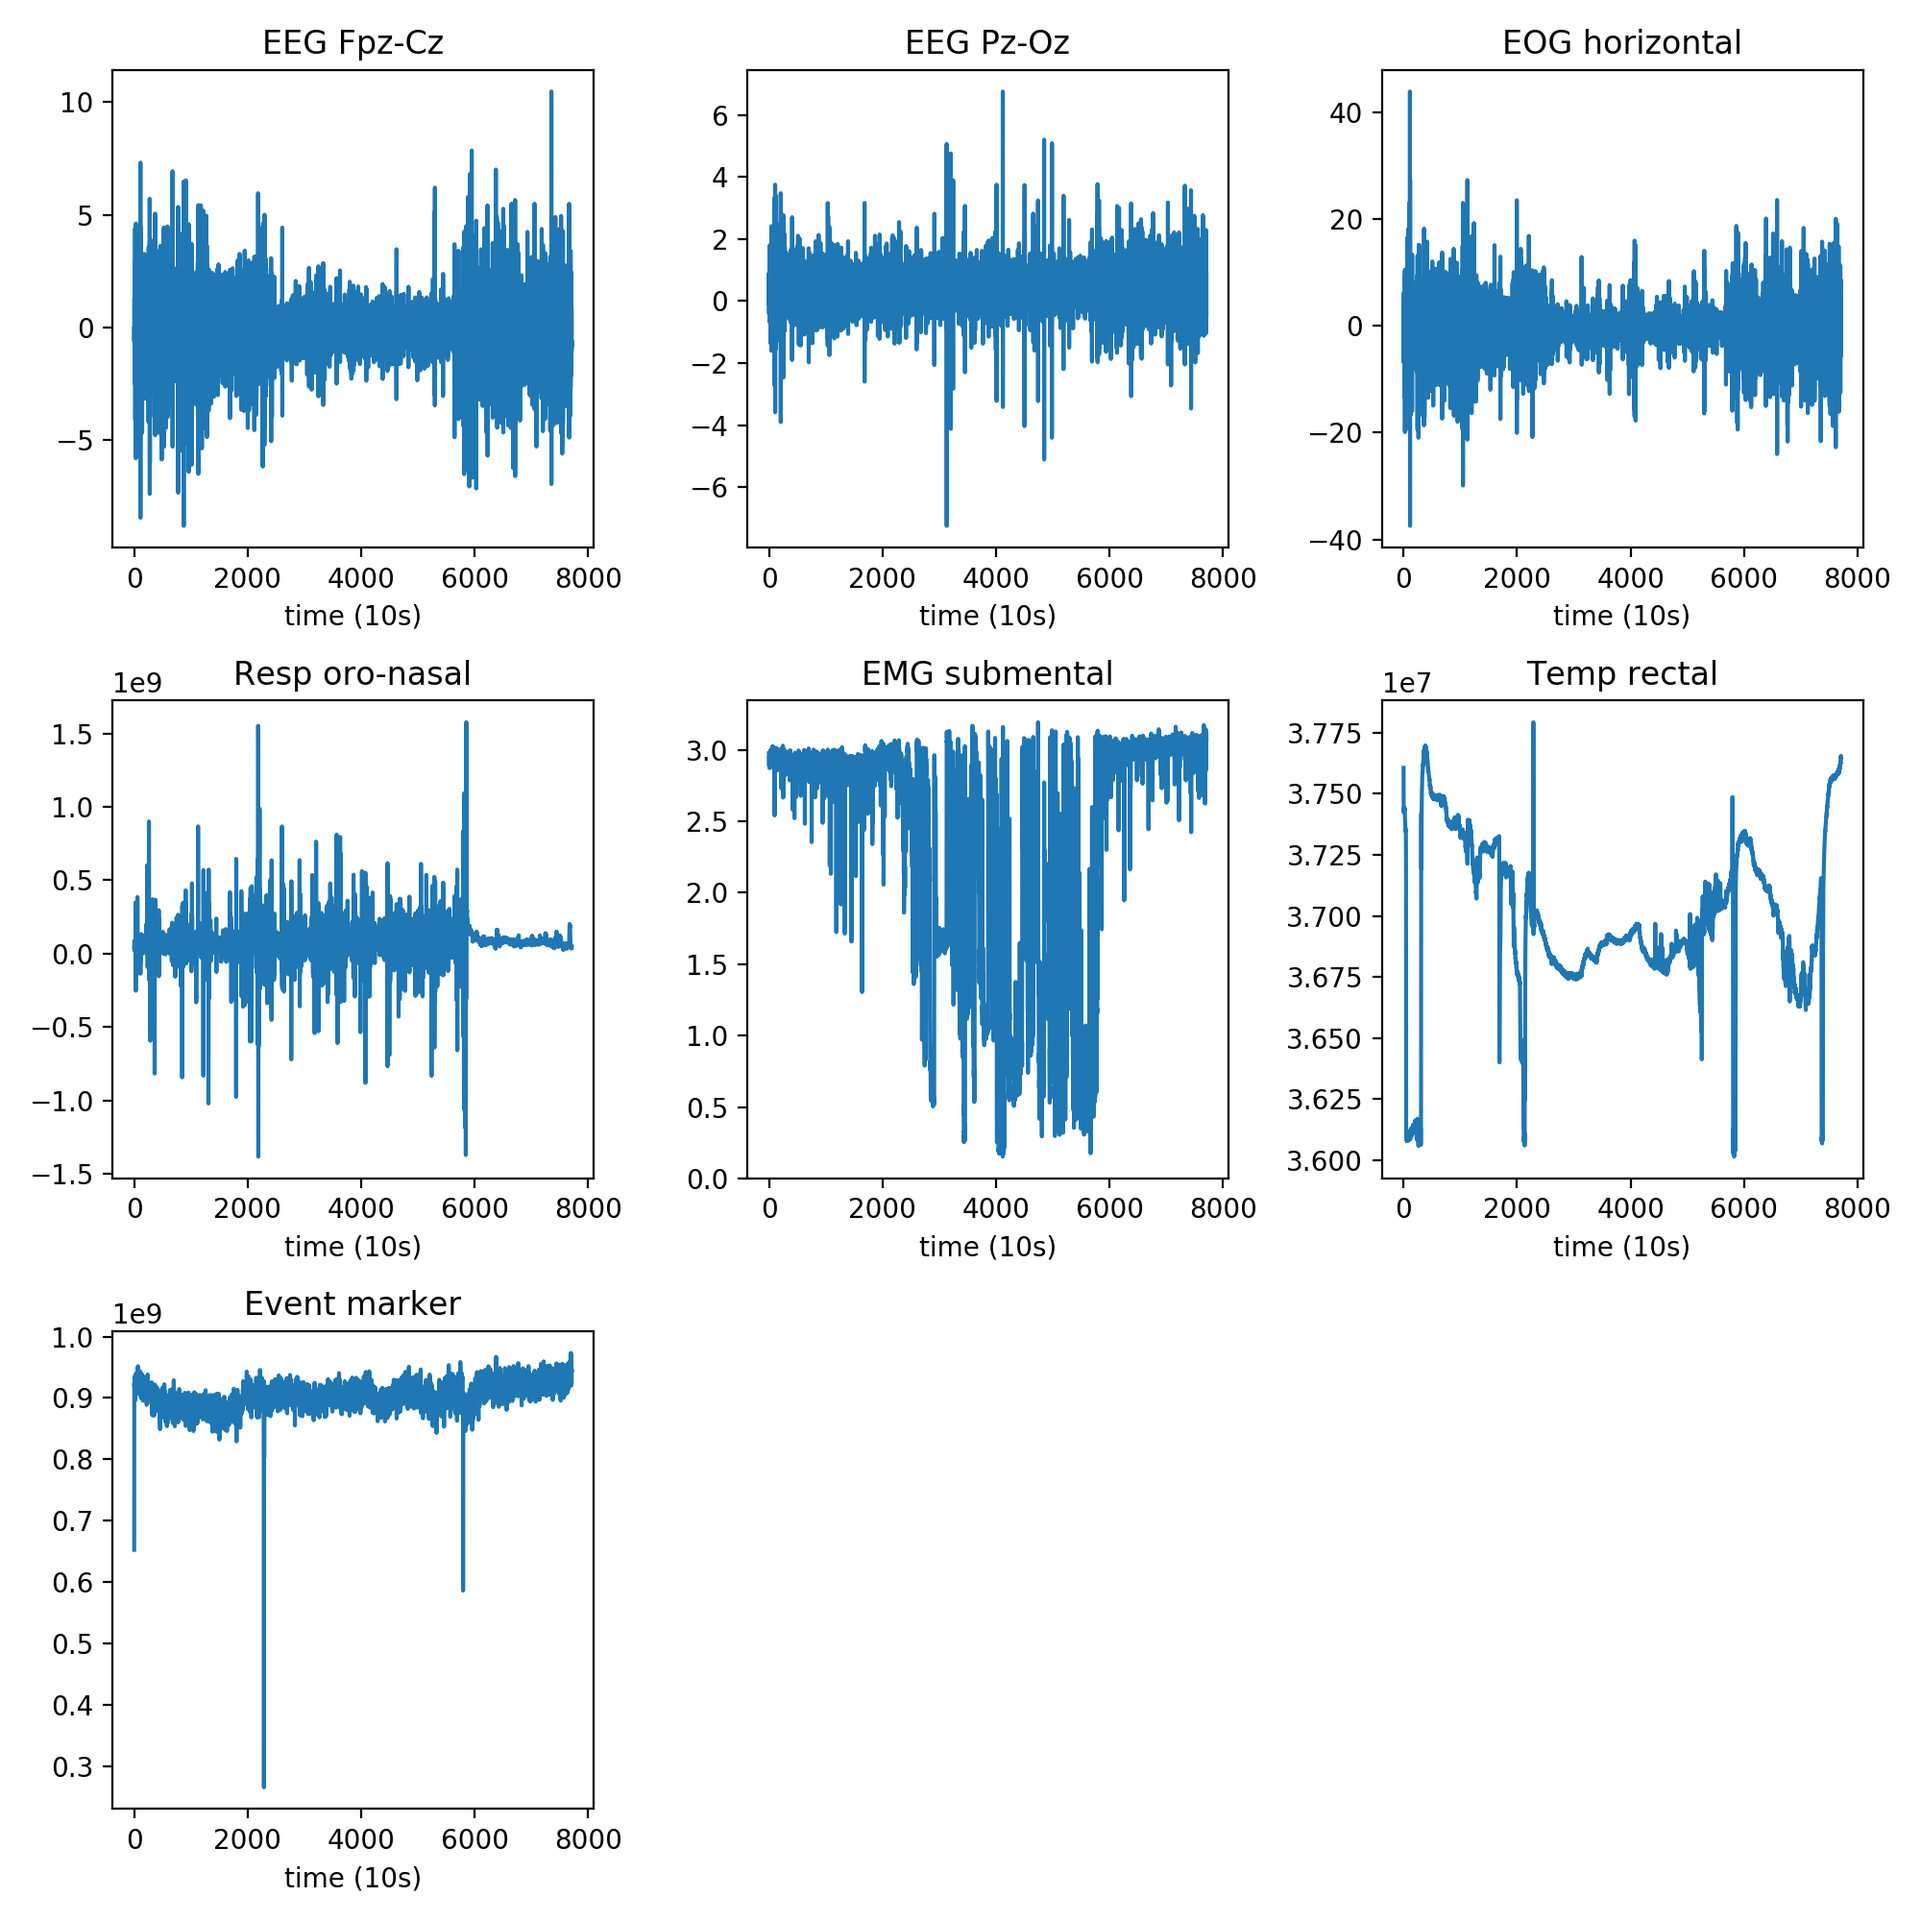
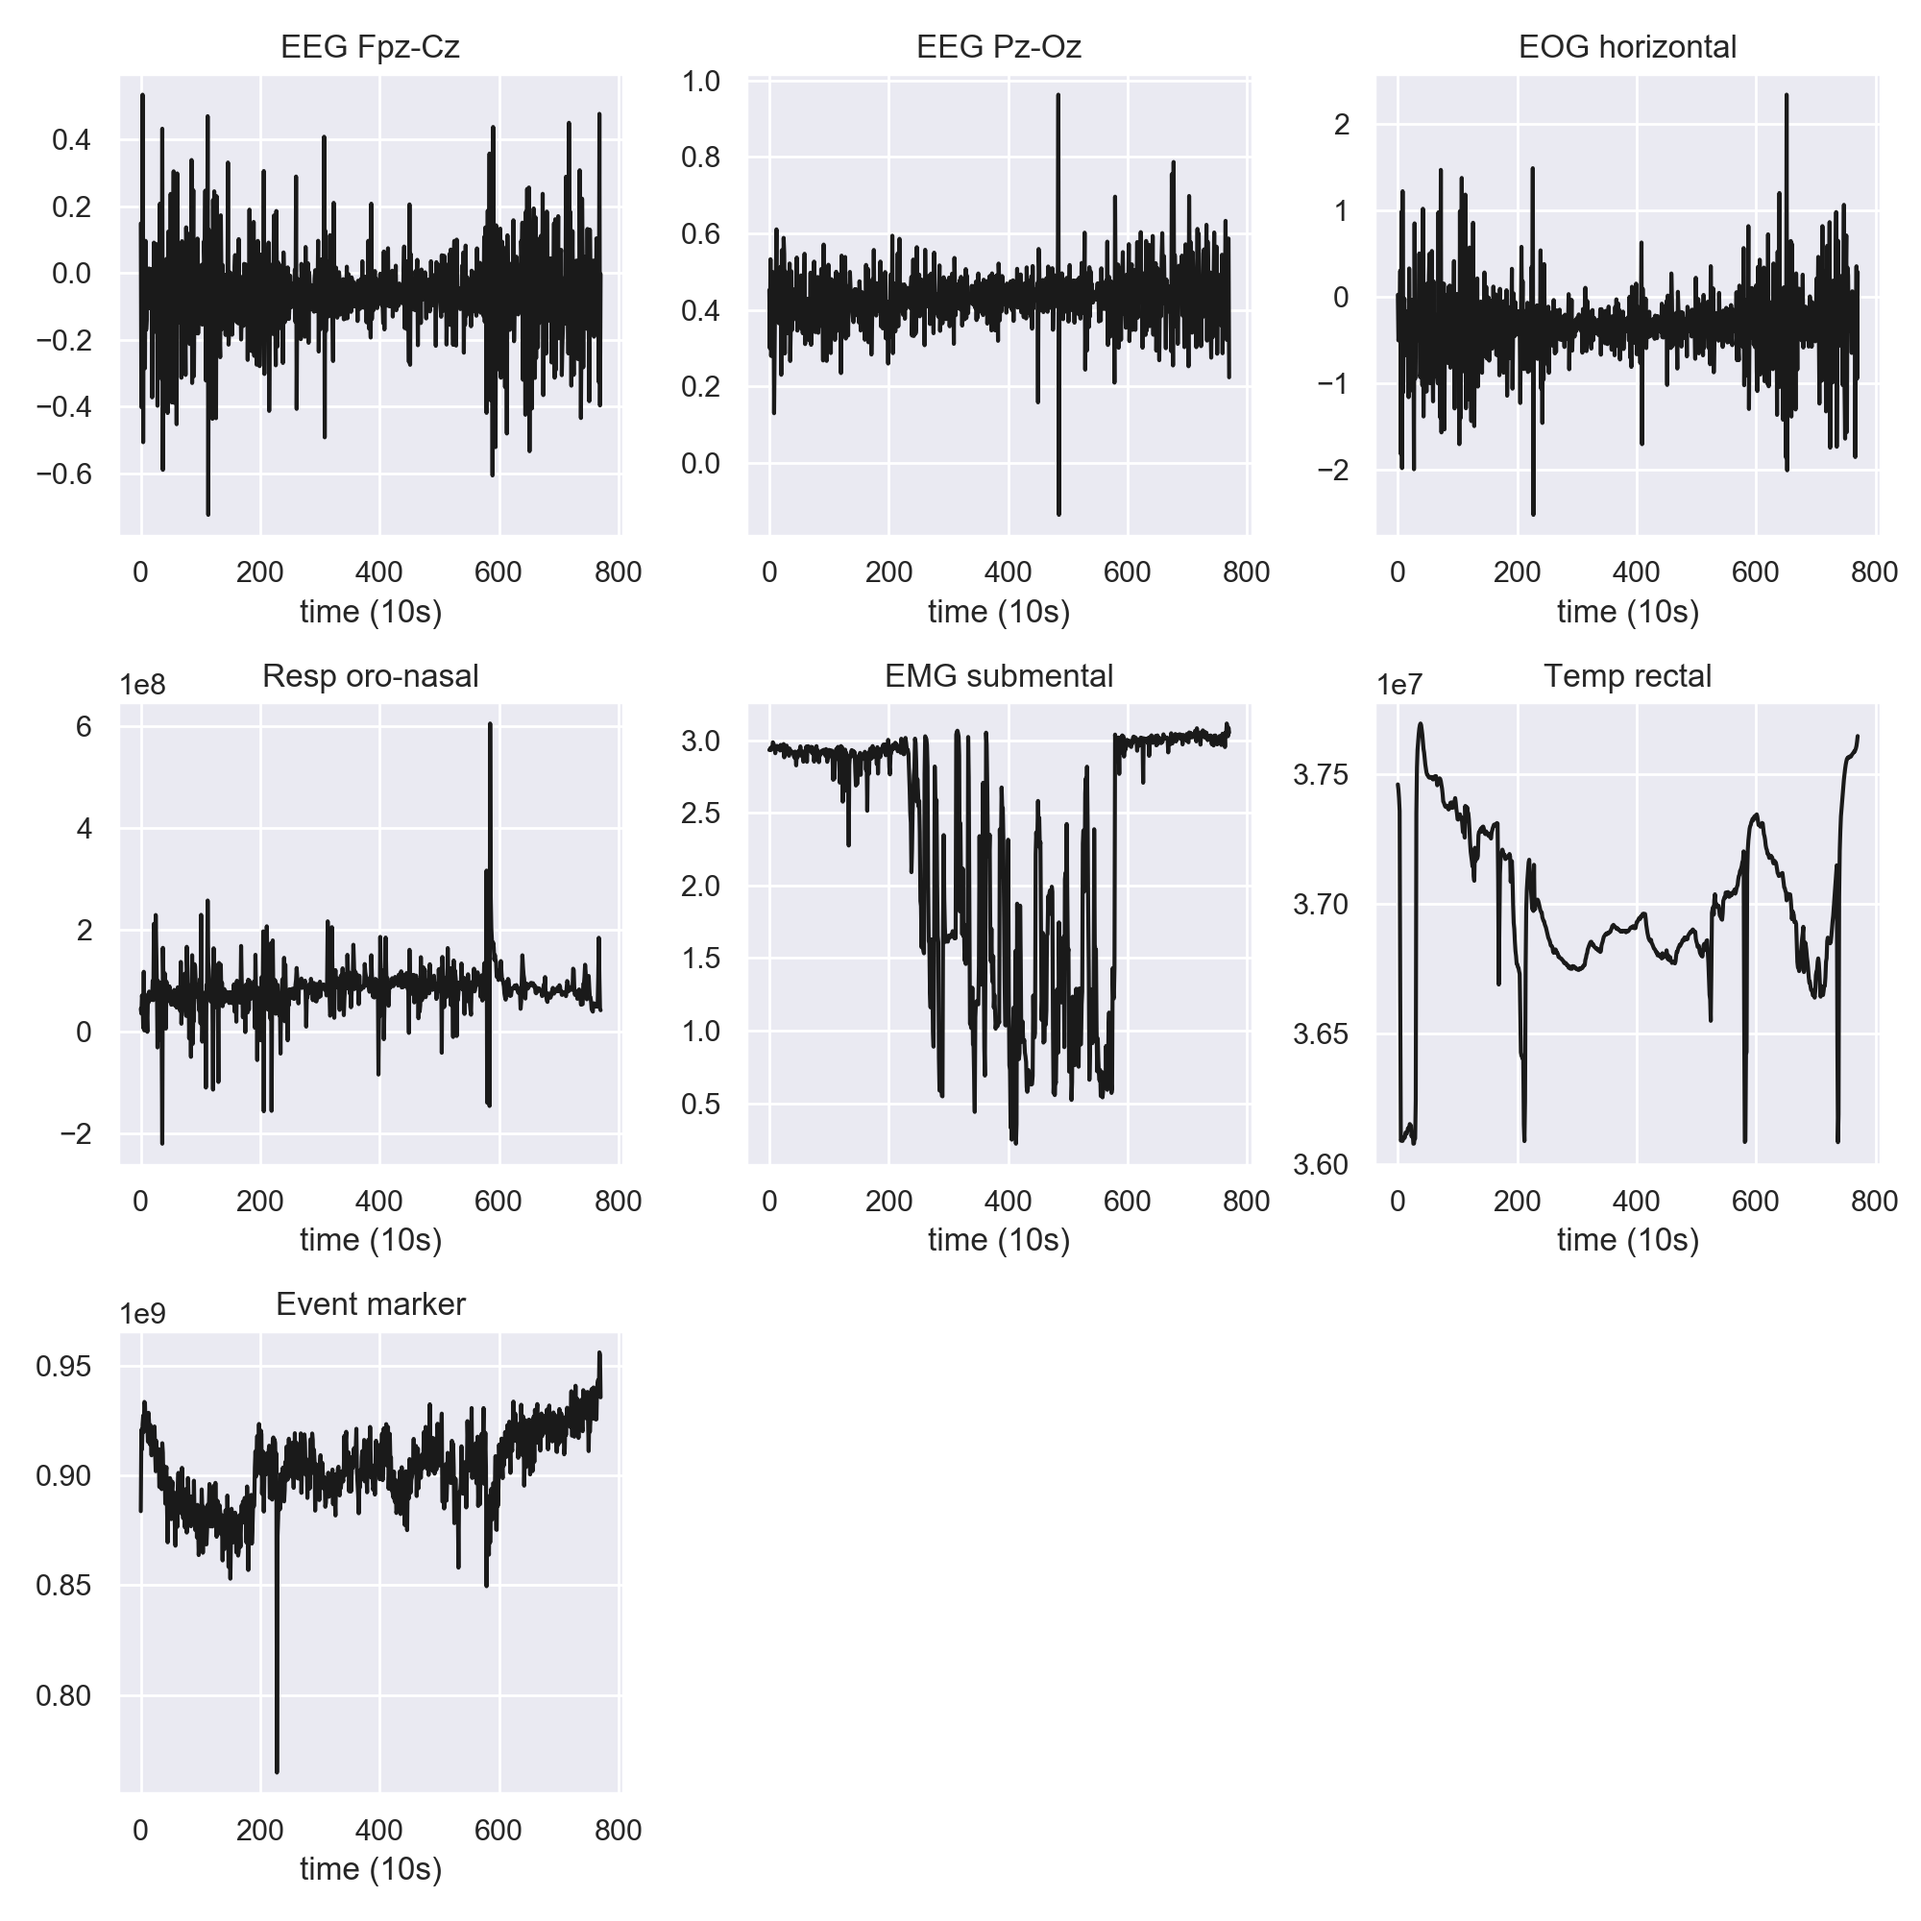
eda plot update.

diff --git a/program/eda.py b/program/eda.py
@@ -5,6 +5,8 @@ import mne
 from mne.io import read_raw_edf
 import os
 import re
+import seaborn as sns
+sns.set()
 
 sample_data = read_raw_edf('data/sleep-cassette/SC4041E0-PSG.edf')
 channel_names = sample_data.info['ch_names']
@@ -21,8 +23,8 @@ def plot_psg(eeg, save_path):
     plt.figure(figsize=[10, 10])
     for i, channel in enumerate(channels):
         plt.subplot(3, 3, i+1)
-        wave = eeg_waveform.iloc[:, i].values.reshape(-1, 1000)
-        plt.plot(wave.mean(axis=1))
+        wave = eeg_waveform.iloc[:, i].values.reshape(-1, 10000)
+        plt.plot(wave.mean(axis=1), color='k')
         plt.title(channel)
         plt.xlabel('time (10s)')
     plt.tight_layout()
@@ -33,7 +35,7 @@ plot_psg(cassete_sample, 'plot/SC4041E0-PSG.png')
 
 telemetry_sample = read_raw_edf('data/sleep-telemetry/ST7011J0-PSG.edf')
 plot_psg(telemetry_sample, 'plot/ST7011J0-PSG.png')
-
+# the final drop appears to be outlier
 
 psg_paths = pd.read_table('data/RECORDS', header=None).iloc[:, 0].values
 
